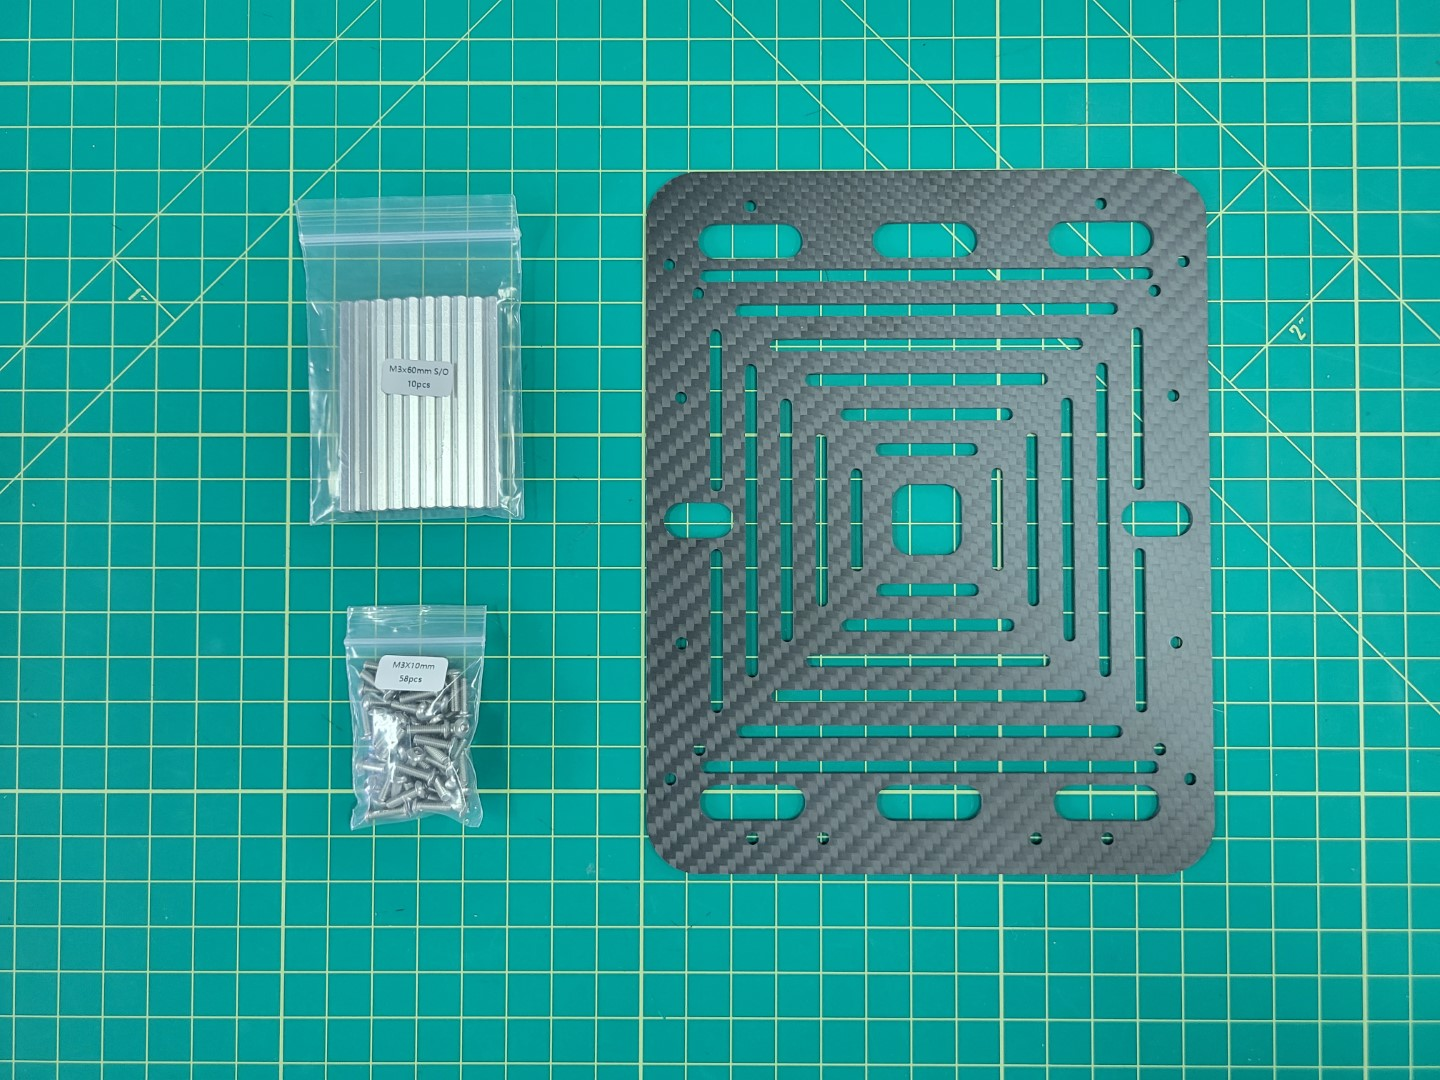
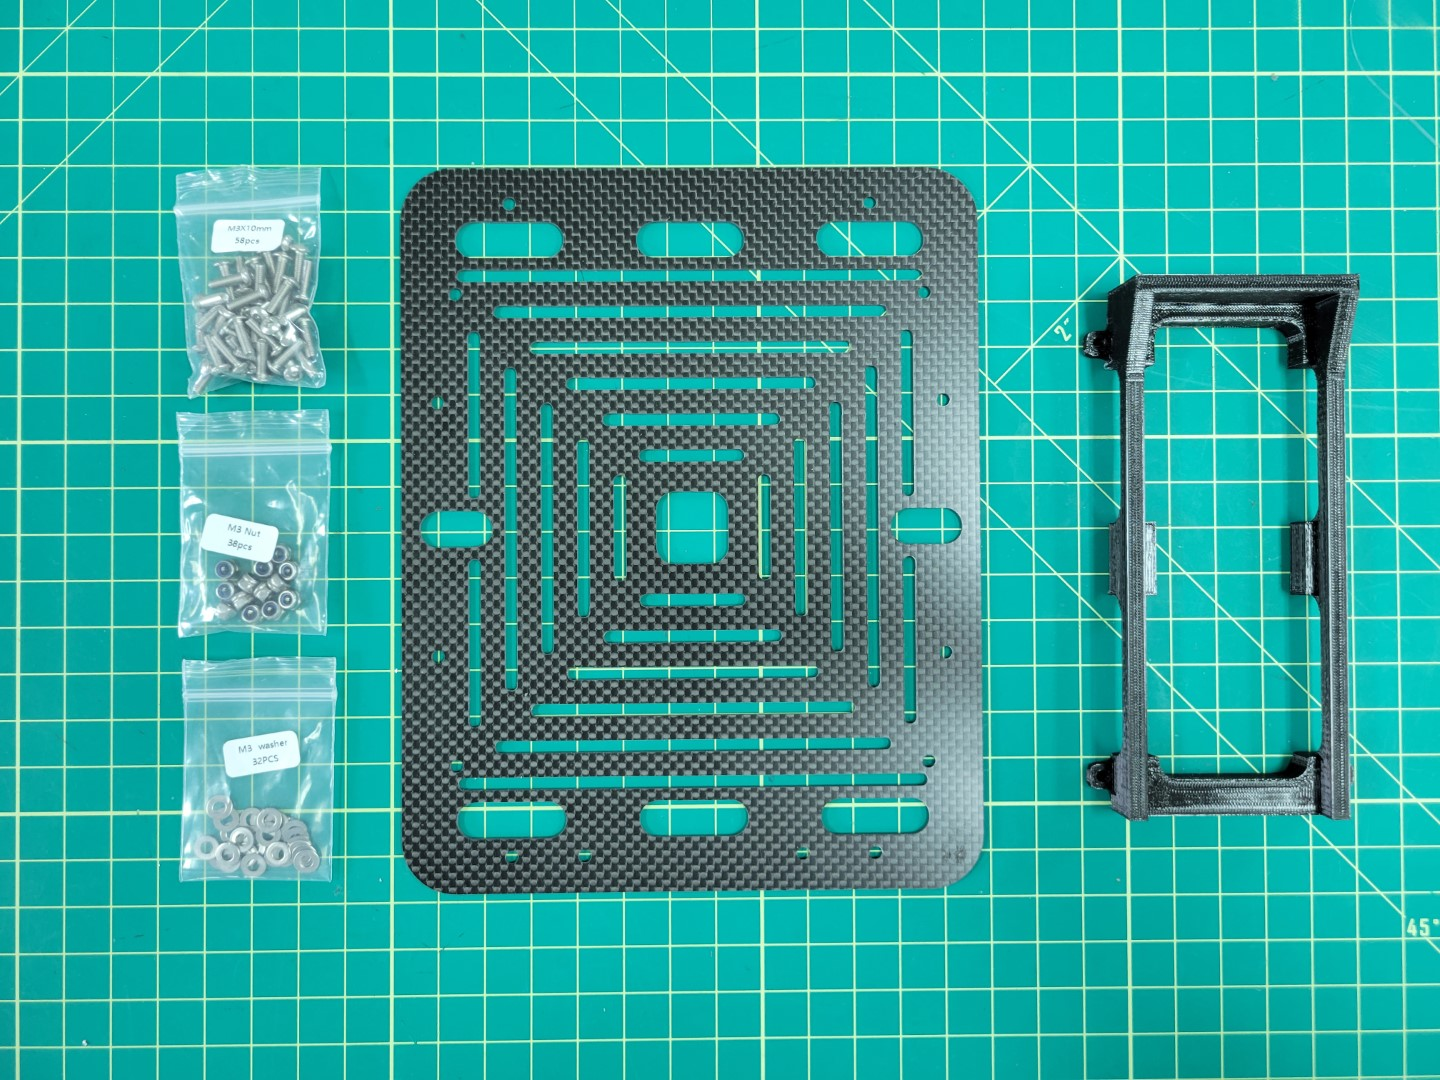
Battery tray

diff --git a/content/en/basic-drone-assembly/bottom-accessory-plate/_index.md b/content/en/basic-drone-assembly/bottom-accessory-plate/_index.md
@@ -1,17 +1,23 @@
 ---
 title: "Bottom Accessory Plate"
 weight: 5
-description: "This page walks through attaching the bottom accessory plate to the AVR frame"
+description: "This page walks through mounting the battery tray and attaching the accessory plate to the AVR frame"
 ---
 
-## Bottom Accessory Plate Assembly
+## Battery Tray Assembly
 
 ![](bottom_accessory_1.jpg)
 
 ![](bottom_accessory_2.jpg)
+
+## Attaching Accessory Plate
 
 ![](bottom_accessory_3.jpg)
 
 ![](bottom_accessory_4.jpg)
 
 ![](bottom_accessory_5.jpg)
+
+![](bottom_accessory_6.jpg)
+
+![](bottom_accessory_7.jpg)
